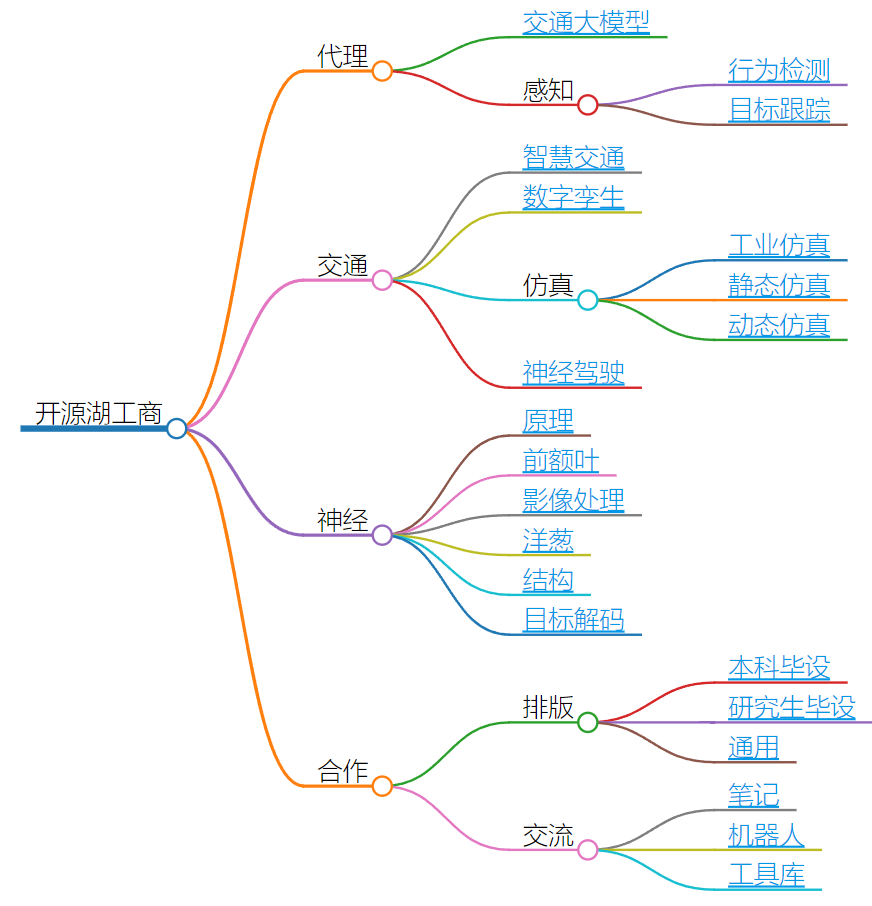
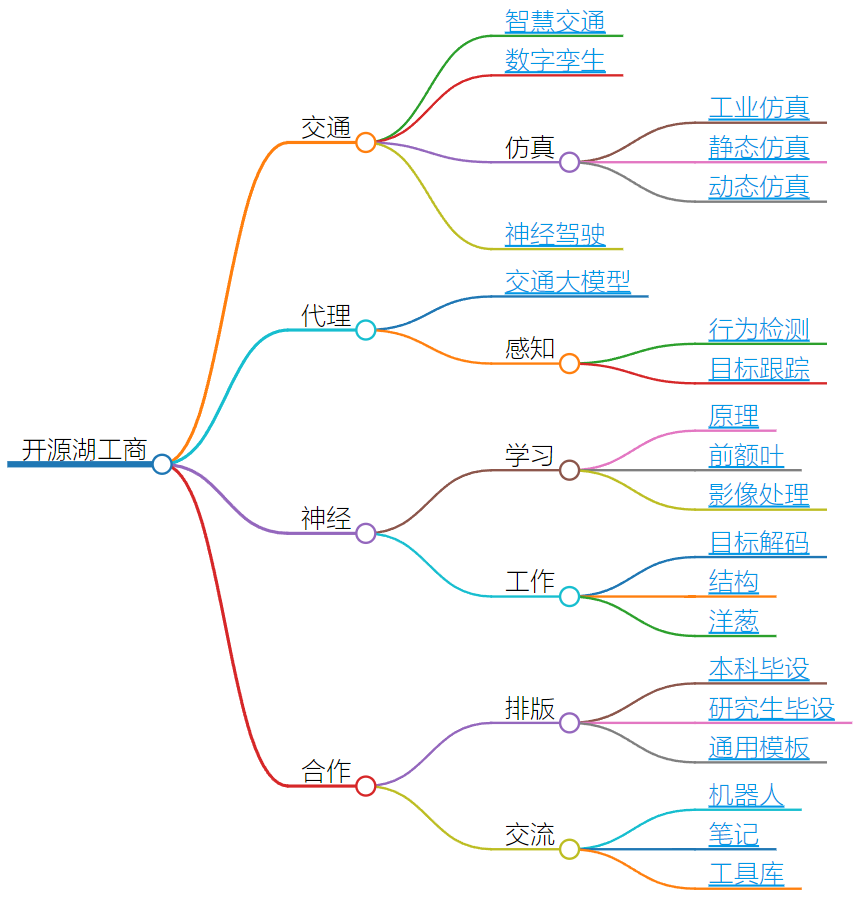
增加内容说明

Changed region(s): [[0.0, 0.0, 1.0, 0.9912]]

diff --git a/README.md b/README.md
@@ -2,46 +2,72 @@
 <!--所有项目关系的思维导图。-->
 <!-- 使用markmap进行编辑并生成svg：https://markmap.js.org/repl -->
 
-## 代理
-
-### [交通大模型](https://github.com/OpenHUTB/gpt)
-
-### 感知
-
-#### [行为检测](https://github.com/OpenHUTB/customs) 
-
-#### [目标跟踪](https://github.com/OpenHUTB/mot)
 
 ## 交通
 
 ### [智慧交通](https://github.com/OpenHUTB/intelligent_traffic) 
+智慧交通微观、中观、宏观仿真和平台后端。
 
 ### [数字孪生](https://github.com/OpenHUTB/driving)
+包括交通场景数字孪生、区域信控、车流诱导、停车管理等模块。
+
 
 ### 仿真
 
 #### [工业仿真](https://github.com/OpenHUTB/matlab) 
+工业仿真软件的解码和二次开发。
 
 #### [静态仿真](https://github.com/OpenHUTB/roadrunner) 
+RoadRunner 的中文翻译文档。
 
 #### [动态仿真](https://github.com/OpenHUTB/roadrunner-scenario) 
+RoadRunner Scenario 的中文翻译文档。
 
 ### [神经驾驶](https://github.com/OpenHUTB/neuro_driving) 
+基于神经解剖对齐理念的统一自动驾驶算法框架。
+
+## 代理
+
+### [交通大模型](https://github.com/OpenHUTB/gpt)
+实现人类语音进行交通场景的编辑和控制。
+
+
+### 感知
+
+#### [行为检测](https://github.com/OpenHUTB/customs) 
+人脸识别、戴口罩的人脸识别、高抗伪识别等。
+
+
+#### [目标跟踪](https://github.com/OpenHUTB/mot)
+实现多目标跟踪算法研究和系统部署。
 
 
 ## 神经
 
-### [原理](https://github.com/OpenHUTB/neuro)
+### 学习
 
-### [前额叶](https://github.com/OpenHUTB/bazaar)
+#### [原理](https://github.com/OpenHUTB/neuro)
+《神经科学原理（第六版）》翻译。
 
-### [影像处理](https://github.com/OpenHUTB/spm)
 
-### [洋葱](https://github.com/OpenHUTB/onion)
+#### [前额叶](https://github.com/OpenHUTB/bazaar)
+《前额叶皮层的神经生物学》翻译。
 
-### [结构](https://github.com/OpenHUTB/structure)
 
-### [目标解码](https://github.com/OpenHUTB/object_decoding) 
+#### [影像处理](https://github.com/OpenHUTB/spm)
+神经影响处理软件。
+
+
+### 工作
+
+#### [目标解码](https://github.com/OpenHUTB/object_decoding)
+通用和精细目标类别的神经解码。
+
+#### [结构](https://github.com/OpenHUTB/structure)
+几何和功能的关系。
+
+#### [洋葱](https://github.com/OpenHUTB/onion)
+结构和功能的关系。
 
 
 ## 合作
@@ -49,19 +75,25 @@
 ### 排版
 
 #### [本科毕设](https://github.com/OpenHUTB/hutb_latex) 
+本科毕业设计的`latex`模板。
 
-#### [研究生毕设](https://github.com/OpenHUTB/master) 
+#### [研究生毕设](https://github.com/OpenHUTB/master)
+研究生毕业设计的`latex`模板。
 
-#### [通用](https://github.com/OpenHUTB/latex)
+#### [通用模板](https://github.com/OpenHUTB/latex)
+书籍、笔记、论文的`latex`模板。
+
 
 ### 交流
 
-#### [笔记](https://github.com/OpenHUTB/note)
-
 #### [机器人](https://github.com/OpenHUTB/robot_2022)
+机器人专业学习。
+
+#### [笔记](https://github.com/OpenHUTB/note)
+相关内容笔记。
 
 #### [工具库](https://github.com/OpenHUTB/utils)
-
+整理的通用工具代码。
 
 
 
